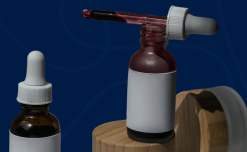
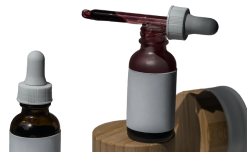
исправила ошибки

diff --git a/css/main.css b/css/main.css
@@ -181,7 +181,7 @@ a {
 .footer {
   margin-top: 94px;
   position: relative;
-  padding: 56px 0;
+  padding-top: 56px;
   background-color: var(--color-primary-dark-blue);
   background-image: url("../../images/footer-background.png");
   background-repeat: no-repeat;
@@ -195,14 +195,15 @@ a {
   background-repeat: no-repeat;
   content: "";
   background-image: url("../../images/bottles-photo.png");
-  width: 278px;
-  height: 213px;
+  width: 247px;
+  height: 152px;
 }
 .footer__container {
   display: -webkit-box;
   display: -ms-flexbox;
   display: flex;
   gap: 20px;
+  padding-bottom: 56px;
 }
 .footer__nav {
   -ms-flex-preferred-size: 50%;
@@ -264,6 +265,9 @@ a {
   top: 0;
   left: 0;
   width: 100%;
+  background-color: rgba(255, 255, 255, 0.25);
+  -webkit-backdrop-filter: blur(5px);
+          backdrop-filter: blur(5px);
 }
 .header__container {
   display: -webkit-box;
@@ -320,7 +324,7 @@ a {
 .hero-section {
   background-image: linear-gradient(89deg, #fff 30.62%, rgba(255, 255, 255, 0.85) 41.31%, rgba(255, 255, 255, 0.19) 58.65%, rgba(255, 255, 255, 0) 72.78%), url("../../images/hero-photo.jpg");
   background-repeat: no-repeat;
-  background-position: center top;
+  background-position: right top;
   background-size: cover;
 }
 .hero-section__title {
@@ -405,6 +409,7 @@ a {
   color: var(--color-primary-white);
   text-align: center;
   font-size: 22px;
+  font-style: normal;
   line-height: 1.2;
 }
 

diff --git a/scss/layouts/_footer.scss b/scss/layouts/_footer.scss
@@ -1,7 +1,7 @@
 .footer {
   margin-top: 94px;
   position: relative;
-  padding: 56px 0;
+  padding-top: 56px;
   background-color: var(--color-primary-dark-blue);
   background-image: url('../../images/footer-background.png');
   background-repeat: no-repeat;
@@ -15,12 +15,13 @@
     background-repeat: no-repeat;
     content: '';
     background-image: url('../../images/bottles-photo.png');
-    width: 278px;
-    height: 213px;
+    width: 247px;
+    height: 152px;
   }
   &__container {
     display: flex;
     gap: 20px;
+    padding-bottom: 56px;
   }
 
   &__nav {

diff --git a/scss/layouts/_hero-section.scss b/scss/layouts/_hero-section.scss
@@ -8,7 +8,7 @@
     ),
     url('../../images/hero-photo.jpg');
   background-repeat: no-repeat;
-  background-position: center top;
+  background-position: right top;
   background-size: cover;
 
   &__title {

diff --git a/scss/layouts/_header.scss b/scss/layouts/_header.scss
@@ -3,6 +3,8 @@
   top: 0;
   left: 0;
   width: 100%;
+  background-color: rgba(255, 255, 255, 0.25);
+  backdrop-filter: blur(5px);
 
   &__container {
     display: flex;

diff --git a/scss/layouts/_procedure-section.scss b/scss/layouts/_procedure-section.scss
@@ -52,6 +52,7 @@
     color: var(--color-primary-white);
     text-align: center;
     font-size: 22px;
+    font-style: normal;
     line-height: 1.2;
   }
 }
